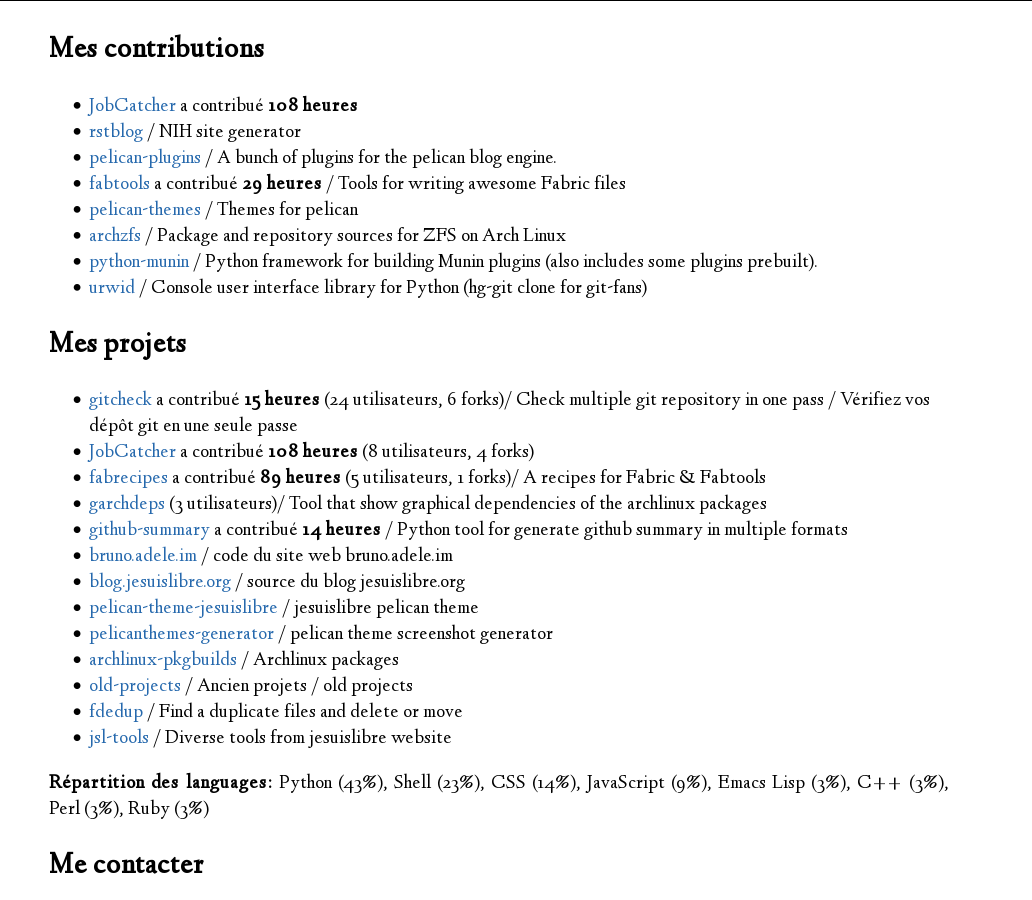
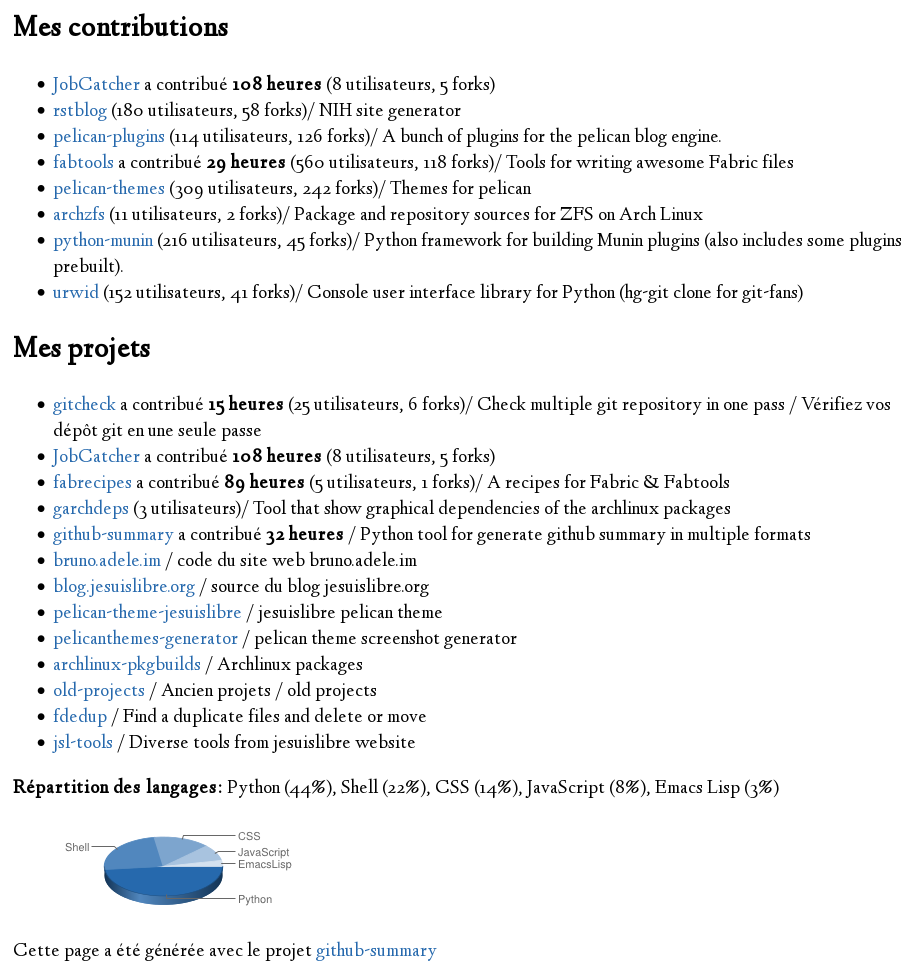
Update stats with serialkiller project

diff --git a/content/pages/projets.rst b/content/pages/projets.rst
@@ -6,7 +6,7 @@ Mes projets
 :slug: projets
 :save_as: projets/index.html
 
-Passionné par les logiciels libres. Je contribue à divers projets, j'ai contribué **381 heures** sur **21** projets.
+Passionné par les logiciels libres. Je contribue à divers projets, j'ai contribué **505 heures** sur **25** projets.
 
 -----------
 Mes projets
@@ -16,7 +16,7 @@ Mes projets
 `gitcheck <https://api.github.com/repos/badele/gitcheck>`__ 
 -----------------------------------------------------------
 
-a contribué **15 heures** (25 utilisateurs, 6 forks)
+a contribué **15 heures** (32 utilisateurs, 9 forks)
 
 
 
@@ -31,7 +31,7 @@ Check multiple git repository in one pass / Vérifiez vos dépôt git en une seu
 `JobCatcher <https://api.github.com/repos/yoannsculo/JobCatcher>`__ 
 -------------------------------------------------------------------
 
-a contribué **108 heures** (8 utilisateurs, 4 forks)
+a contribué **108 heures** (10 utilisateurs, 7 forks)
 
 
 
@@ -46,7 +46,7 @@ a contribué **108 heures** (8 utilisateurs, 4 forks)
 `fabrecipes <https://api.github.com/repos/badele/fabrecipes>`__ 
 ---------------------------------------------------------------
 
-a contribué **89 heures** (5 utilisateurs, 1 forks)
+a contribué **92 heures** (4 utilisateurs, 1 forks)
 
 
 
@@ -58,12 +58,10 @@ a contribué **89 heures** (5 utilisateurs, 1 forks)
 
 A recipes for Fabric & Fabtools
 
-`garchdeps <https://api.github.com/repos/badele/garchdeps>`__ 
--------------------------------------------------------------
+`serialkiller <https://api.github.com/repos/badele/serialkiller>`__ 
+-------------------------------------------------------------------
 
-(3 utilisateurs)
-
-
+a contribué **110 heures** (4 utilisateurs)
 
 
 
@@ -71,12 +69,14 @@ A recipes for Fabric & Fabtools
 
 
 
-Tool that show graphical dependencies of the archlinux packages
+
+
+timeseries database with reduce system
 
 `github-summary <https://api.github.com/repos/badele/github-summary>`__ 
 -----------------------------------------------------------------------
 
-a contribué **22 heures** 
+a contribué **32 heures** (2 utilisateurs)
 
 
 
@@ -88,8 +88,38 @@ a contribué **22 heures**
 
 Python tool for generate github summary in multiple formats
 
-`bruno.adele.im <https://api.github.com/repos/badele/bruno.adele.im>`__ 
------------------------------------------------------------------------
+`garchdeps <https://api.github.com/repos/badele/garchdeps>`__ 
+-------------------------------------------------------------
+
+(2 utilisateurs)
+
+
+
+
+
+
+
+
+
+Tool that show graphical dependencies of the archlinux packages
+
+`pelican-theme-jesuislibre <https://api.github.com/repos/badele/pelican-theme-jesuislibre>`__ 
+---------------------------------------------------------------------------------------------
+
+(1 utilisateurs)
+
+
+
+
+
+
+
+
+
+jesuislibre pelican theme
+
+`serialkiller-plugins <https://api.github.com/repos/badele/serialkiller-plugins>`__ 
+-----------------------------------------------------------------------------------
 
 
 
@@ -101,7 +131,22 @@ Python tool for generate github summary in multiple formats
 
 
 
-code du site web bruno.adele.im
+Plugins for serialkiller project
+
+`python-project-template <https://api.github.com/repos/badele/python-project-template>`__ 
+-----------------------------------------------------------------------------------------
+
+
+
+
+
+
+
+
+
+
+
+A Python project template
 
 `blog.jesuislibre.org <https://api.github.com/repos/badele/blog.jesuislibre.org>`__ 
 -----------------------------------------------------------------------------------
@@ -118,8 +163,8 @@ code du site web bruno.adele.im
 
 source du blog jesuislibre.org
 
-`pelican-theme-jesuislibre <https://api.github.com/repos/badele/pelican-theme-jesuislibre>`__ 
----------------------------------------------------------------------------------------------
+`bruno.adele.im <https://api.github.com/repos/badele/bruno.adele.im>`__ 
+-----------------------------------------------------------------------
 
 
 
@@ -131,7 +176,7 @@ source du blog jesuislibre.org
 
 
 
-jesuislibre pelican theme
+code du site web bruno.adele.im
 
 `pelicanthemes-generator <https://api.github.com/repos/badele/pelicanthemes-generator>`__ 
 -----------------------------------------------------------------------------------------
@@ -218,7 +263,7 @@ Mes contributions
 `JobCatcher <https://api.github.com/repos/badele/JobCatcher>`__ 
 ---------------------------------------------------------------
 
-a contribué **108 heures** (8 utilisateurs, 4 forks)
+a contribué **108 heures** (10 utilisateurs, 7 forks)
 
 
 
@@ -233,7 +278,7 @@ a contribué **108 heures** (8 utilisateurs, 4 forks)
 `rstblog <https://api.github.com/repos/badele/rstblog>`__ 
 ---------------------------------------------------------
 
-(180 utilisateurs, 58 forks)
+(186 utilisateurs, 57 forks)
 
 
 
@@ -245,25 +290,10 @@ a contribué **108 heures** (8 utilisateurs, 4 forks)
 
 NIH site generator
 
-`pelican-plugins <https://api.github.com/repos/badele/pelican-plugins>`__ 
--------------------------------------------------------------------------
-
-(115 utilisateurs, 125 forks)
-
-
-
-
-
-
-
-
-
-A bunch of plugins for the pelican blog engine.
-
 `fabtools <https://api.github.com/repos/badele/fabtools>`__ 
 -----------------------------------------------------------
 
-a contribué **29 heures** (558 utilisateurs, 118 forks)
+a contribué **30 heures** (599 utilisateurs, 125 forks)
 
 
 
@@ -275,10 +305,40 @@ a contribué **29 heures** (558 utilisateurs, 118 forks)
 
 Tools for writing awesome Fabric files
 
+`life <https://api.github.com/repos/badele/life>`__ 
+---------------------------------------------------
+
+(1948 utilisateurs, 536 forks)
+
+
+
+
+
+
+
+
+
+Life - a timeline of important events in my life
+
+`pelican-plugins <https://api.github.com/repos/badele/pelican-plugins>`__ 
+-------------------------------------------------------------------------
+
+(145 utilisateurs, 166 forks)
+
+
+
+
+
+
+
+
+
+A bunch of plugins for the pelican blog engine.
+
 `pelican-themes <https://api.github.com/repos/badele/pelican-themes>`__ 
 -----------------------------------------------------------------------
 
-(308 utilisateurs, 241 forks)
+(373 utilisateurs, 290 forks)
 
 
 
@@ -293,7 +353,7 @@ Themes for pelican
 `archzfs <https://api.github.com/repos/badele/archzfs>`__ 
 ---------------------------------------------------------
 
-(11 utilisateurs, 2 forks)
+(16 utilisateurs, 3 forks)
 
 
 
@@ -308,7 +368,7 @@ Package and repository sources for ZFS on Arch Linux
 `python-munin <https://api.github.com/repos/badele/python-munin>`__ 
 -------------------------------------------------------------------
 
-(216 utilisateurs, 45 forks)
+(225 utilisateurs, 47 forks)
 
 
 
@@ -323,7 +383,7 @@ Python framework for building Munin plugins (also includes some plugins prebuilt
 `urwid <https://api.github.com/repos/badele/urwid>`__ 
 -----------------------------------------------------
 
-(151 utilisateurs, 41 forks)
+(179 utilisateurs, 44 forks)
 
 
 
@@ -336,7 +396,15 @@ Python framework for building Munin plugins (also includes some plugins prebuilt
 Console user interface library for Python (hg-git clone for git-fans)
 
 
+-------------------------
+Répartition des langages
+-------------------------
 
-Cette page a été généré avec le projet `github-summary`_
+**Répartition des langages:** Python (50%), Shell (21%), CSS (11%), JavaScript (8%), Emacs Lisp (3%), C++ (3%), Perl (3%), Ruby (3%)
+
+.. image:: https://chart.googleapis.com/chart?cht=p3&chs=600x180&chd=t:50,21,11,8,3,3,3,3&chl=Python|Shell|CSS|JavaScript|Emacs Lisp|C++|Perl|Ruby&chco=2669ad
+    :alt: Languages graphs
+
+Cette page a été générée avec le projet `github-summary`_
 
 .. _github-summary: https://github.com/badele/github-summary

diff --git a/content/pages/about.rst b/content/pages/about.rst
@@ -11,7 +11,7 @@ J'ai découvert l'informatique peut de temps après les années 80, c'est le dé
 j'ai également découvert ce que je pourrais appeler la meilleure invention de l'informatique: Internet. Depuis plus de 15 ans, j'ai acquis diverses compétences dans des 
 domaines qui peuvent aller de l'ingienierie systeme à la programmation en passant pas le design. `Pour en savoir plus </cv>`__ 
 
-Je suis également passionné par les logiciels libres. Jusqu'à présent j'ai contribué **381 heures** à divers projets libres.
+Je suis également passionné par les logiciels libres. Jusqu'à présent j'ai contribué **505 heures** à divers projets libres.
 
 Mes blogs
 ---------
@@ -33,36 +33,43 @@ Mes sites
 Mes contributions
 -----------------
 
-- `JobCatcher`_ a contribué **108 heures** (8 utilisateurs, 4 forks)
-- `rstblog`_ (180 utilisateurs, 58 forks)/ NIH site generator
-- `pelican-plugins`_ (115 utilisateurs, 125 forks)/ A bunch of plugins for the pelican blog engine.
-- `fabtools`_ a contribué **29 heures** (558 utilisateurs, 118 forks)/ Tools for writing awesome Fabric files
-- `pelican-themes`_ (308 utilisateurs, 241 forks)/ Themes for pelican
-- `archzfs`_ (11 utilisateurs, 2 forks)/ Package and repository sources for ZFS on Arch Linux
-- `python-munin`_ (216 utilisateurs, 45 forks)/ Python framework for building Munin plugins (also includes some plugins prebuilt).
-- `urwid`_ (151 utilisateurs, 41 forks)/ Console user interface library for Python (hg-git clone for git-fans)
+- `JobCatcher`_ a contribué **108 heures** (10 utilisateurs, 7 forks)
+- `rstblog`_ (186 utilisateurs, 57 forks)/ NIH site generator
+- `fabtools`_ a contribué **30 heures** (599 utilisateurs, 125 forks)/ Tools for writing awesome Fabric files
+- `life`_ (1948 utilisateurs, 536 forks)/ Life - a timeline of important events in my life
+- `pelican-plugins`_ (145 utilisateurs, 166 forks)/ A bunch of plugins for the pelican blog engine.
+- `pelican-themes`_ (373 utilisateurs, 290 forks)/ Themes for pelican
+- `archzfs`_ (16 utilisateurs, 3 forks)/ Package and repository sources for ZFS on Arch Linux
+- `python-munin`_ (225 utilisateurs, 47 forks)/ Python framework for building Munin plugins (also includes some plugins prebuilt).
+- `urwid`_ (179 utilisateurs, 44 forks)/ Console user interface library for Python (hg-git clone for git-fans)
 
 
 Mes projets
 -----------
 
-- `gitcheck`_ a contribué **15 heures** (25 utilisateurs, 6 forks)/ Check multiple git repository in one pass / Vérifiez vos dépôt git en une seule passe
-- `JobCatcher`_ a contribué **108 heures** (8 utilisateurs, 4 forks)
-- `fabrecipes`_ a contribué **89 heures** (5 utilisateurs, 1 forks)/ A recipes for Fabric & Fabtools
-- `garchdeps`_ (3 utilisateurs)/ Tool that show graphical dependencies of the archlinux packages
-- `github-summary`_ a contribué **22 heures** / Python tool for generate github summary in multiple formats
-- `bruno.adele.im`_ / code du site web bruno.adele.im
+- `gitcheck`_ a contribué **15 heures** (32 utilisateurs, 9 forks)/ Check multiple git repository in one pass / Vérifiez vos dépôt git en une seule passe
+- `JobCatcher`_ a contribué **108 heures** (10 utilisateurs, 7 forks)
+- `fabrecipes`_ a contribué **92 heures** (4 utilisateurs, 1 forks)/ A recipes for Fabric & Fabtools
+- `serialkiller`_ a contribué **110 heures** (4 utilisateurs)/ timeseries database with reduce system
+- `github-summary`_ a contribué **32 heures** (2 utilisateurs)/ Python tool for generate github summary in multiple formats
+- `garchdeps`_ (2 utilisateurs)/ Tool that show graphical dependencies of the archlinux packages
+- `pelican-theme-jesuislibre`_ (1 utilisateurs)/ jesuislibre pelican theme
+- `serialkiller-plugins`_ / Plugins for serialkiller project
+- `python-project-template`_ / A Python project template
 - `blog.jesuislibre.org`_ / source du blog jesuislibre.org
-- `pelican-theme-jesuislibre`_ / jesuislibre pelican theme
+- `bruno.adele.im`_ / code du site web bruno.adele.im
 - `pelicanthemes-generator`_ / pelican theme screenshot generator
 - `archlinux-pkgbuilds`_ / Archlinux packages
 - `old-projects`_ / Ancien projets / old projects
 - `fdedup`_ / Find a duplicate files and delete or move
 - `jsl-tools`_ / Diverse tools from jesuislibre website
 
-**Répartition des languages:** Python (44%), Shell (22%), CSS (14%), JavaScript (8%), Emacs Lisp (3%), C++ (3%), Perl (3%), Ruby (3%)
+**Répartition des langages:** Python (50%), Shell (21%), CSS (11%), JavaScript (8%), Emacs Lisp (3%)
 
-Cette page a été généré avec le projet `github-summary`_
+.. image:: https://chart.googleapis.com/chart?cht=p3&chs=300x90&chd=t:50,21,11,8,3&chl=Python|Shell|CSS|JavaScript|Emacs Lisp&chco=2669ad
+    :alt: Languages graphs
+
+Cette page a été générée avec le projet `github-summary`_
 
 Me contacter
 ------------
@@ -81,11 +88,14 @@ Me contacter
 .. _gitcheck: https://github.com/badele/gitcheck
 .. _jobcatcher: https://github.com/badele/jobcatcher
 .. _fabrecipes: https://github.com/badele/fabrecipes
-.. _garchdeps: https://github.com/badele/garchdeps
+.. _serialkiller: https://github.com/badele/serialkiller
 .. _github-summary: https://github.com/badele/github-summary
-.. _bruno.adele.im: https://github.com/badele/bruno.adele.im
-.. _blog.jesuislibre.org: https://github.com/badele/blog.jesuislibre.org
+.. _garchdeps: https://github.com/badele/garchdeps
 .. _pelican-theme-jesuislibre: https://github.com/badele/pelican-theme-jesuislibre
+.. _serialkiller-plugins: https://github.com/badele/serialkiller-plugins
+.. _python-project-template: https://github.com/badele/python-project-template
+.. _blog.jesuislibre.org: https://github.com/badele/blog.jesuislibre.org
+.. _bruno.adele.im: https://github.com/badele/bruno.adele.im
 .. _pelicanthemes-generator: https://github.com/badele/pelicanthemes-generator
 .. _archlinux-pkgbuilds: https://github.com/badele/archlinux-pkgbuilds
 .. _old-projects: https://github.com/badele/old-projects
@@ -95,8 +105,9 @@ Me contacter
 
 .. _jobcatcher: https://github.com/badele/jobcatcher
 .. _rstblog: https://github.com/badele/rstblog
-.. _pelican-plugins: https://github.com/badele/pelican-plugins
 .. _fabtools: https://github.com/badele/fabtools
+.. _life: https://github.com/badele/life
+.. _pelican-plugins: https://github.com/badele/pelican-plugins
 .. _pelican-themes: https://github.com/badele/pelican-themes
 .. _archzfs: https://github.com/badele/archzfs
 .. _python-munin: https://github.com/badele/python-munin
